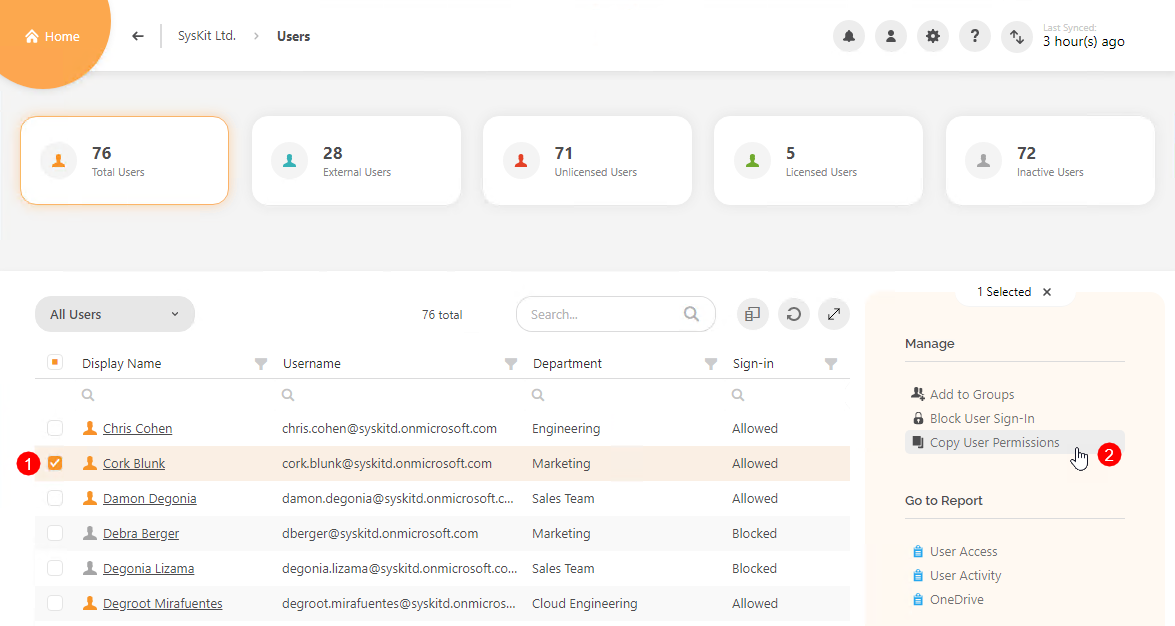
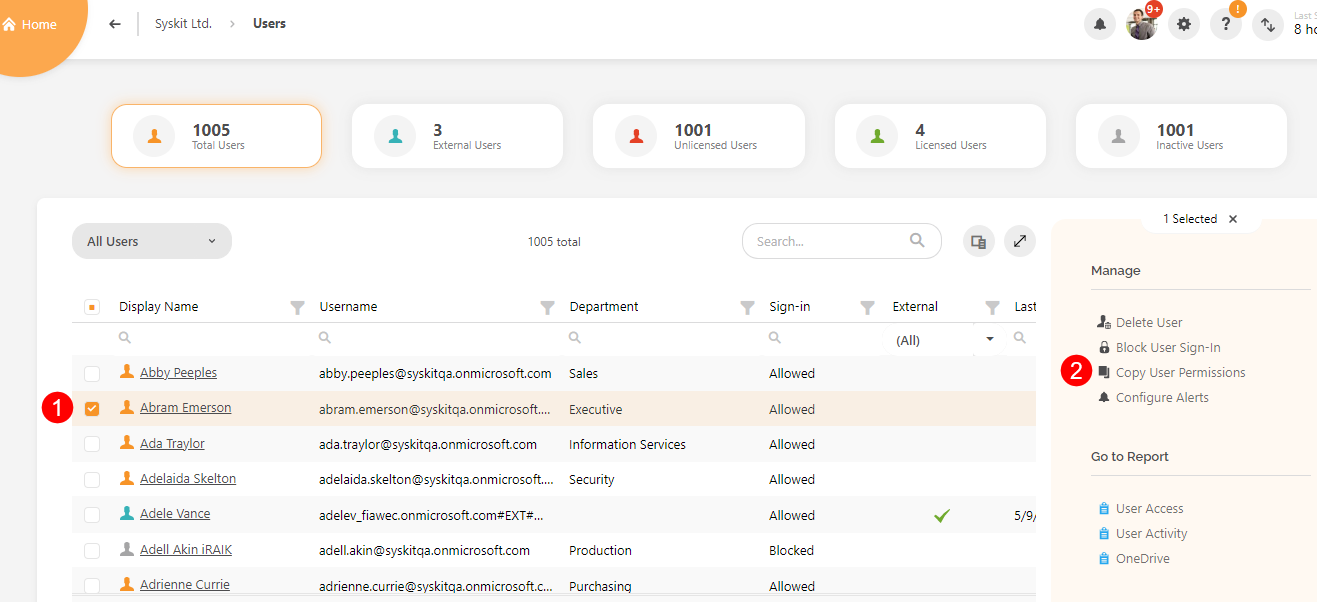
update to copy permissions

diff --git a/access-management/copy-user-permissions.md b/access-management/copy-user-permissions.md
@@ -25,11 +25,10 @@ To copy permissions from one user to another, follow these steps:
 * **Select a user on the Users overview screen \(1\)** – permissions will be copied from this user
 * **Click the Copy User Permissions \(2\)** action in the side panel – the Copy Permissions dialog opens
 * **Select one or more Destination users \(3\)** – permissions will be copied to this user
-* **Check the Transfer Permissions option \(4\)** if you want to remove all permissions from the source user after the permissions are granted for the
+* **Check the Transfer Permissions option \(4\)** if you want to remove all permissions from the source user after the permissions are granted for the destination users
+* **Check the Copy memberships in Microsoft Teams private channels option \(5\)** if you want to copy the permissions of this user for the private channels where they are a member
 
-  destination users
-
-* **Click the Copy Permissions button \(5\)** to run the action
+* **Click the Copy Permissions button \(6\)** to run the action
 
 ![Users Overview - Copy User Permissions](../.gitbook/assets/copy-user-permissions_users-overview.png)
 
